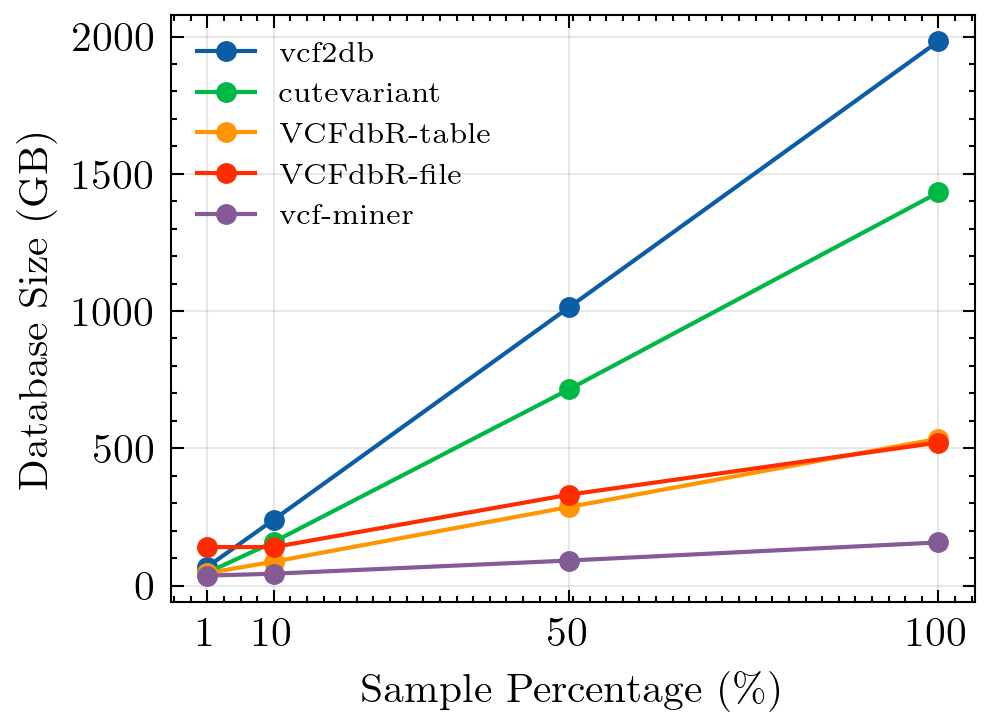
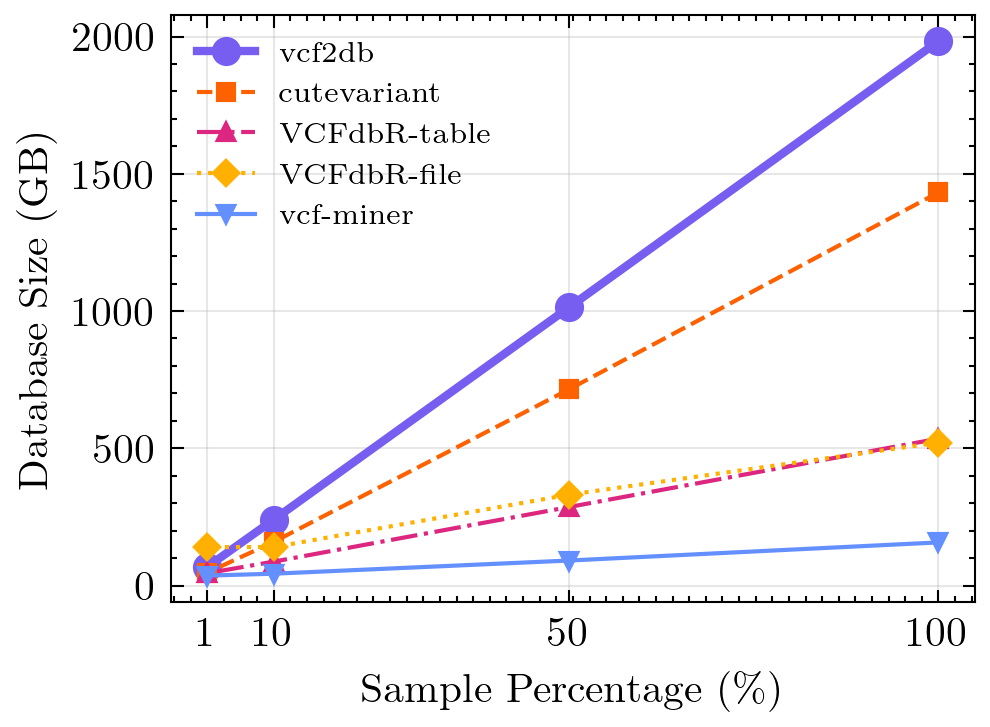
Keep line style consistent in ingestion-indexing-size plots

diff --git a/src/plot_ingestion_indexing_scaling.py b/src/plot_ingestion_indexing_scaling.py
@@ -3,6 +3,10 @@ import pandas as pd
 import scienceplots
 
 plt.style.use('science')
+plt.rcParams['axes.prop_cycle'] = plt.cycler(color=['#785ef0', '#fe6100', '#dc267f', '#ffb000', '#648fff'])
+
+markers = ['o', 's', '^', 'D', 'v', 'P', 'X']
+linestyles = ['-', '--', '-.', ':', '-', '--', '-.']
 
 df = pd.read_csv('data/ingestion_indexing_subsamples.csv')
 
@@ -12,10 +16,11 @@ sample_percentages = [1, 10, 50, 100]
 # Ingestion plot
 fig1, ax1 = plt.subplots()
 
-for solution in solutions:
+for i, solution in enumerate(solutions):
     solution_data = df[df['solution'] == solution]
     ingestion_hours = solution_data['ingestion'].div(3600)
-    ax1.plot(solution_data['sample_percentage'], ingestion_hours, marker='o', markersize=4, label=solution)
+    lw, ms = (2, 6) if solution == 'vcf2db' else (1, 4)
+    ax1.plot(solution_data['sample_percentage'], ingestion_hours, marker=markers[i % len(markers)], linestyle=linestyles[i % len(linestyles)], markersize=ms, linewidth=lw, label=solution)
 
 ax1.set_xlabel('Sample Percentage (\%)')
 ax1.set_ylabel('Hours')
@@ -24,15 +29,17 @@ ax1.set_xticks(sample_percentages)
 ax1.grid(True, alpha=0.3)
 
 plt.tight_layout()
-plt.savefig('plots/ingestion_scaling.png', dpi=300)
+plt.savefig('plots/ingestion_scaling.png', dpi=300, bbox_inches='tight')
+plt.close()
 
 # Indexing plot
 fig2, ax2 = plt.subplots()
 
-for solution in solutions:
+for i, solution in enumerate(solutions):
     solution_data = df[df['solution'] == solution]
     indexing_hours = solution_data['indexing'].div(3600)
-    ax2.plot(solution_data['sample_percentage'], indexing_hours, marker='o', markersize=4, label=solution)
+    lw, ms = (2, 6) if solution == 'vcf2db' else (1, 4)
+    ax2.plot(solution_data['sample_percentage'], indexing_hours, marker=markers[i % len(markers)], linestyle=linestyles[i % len(linestyles)], markersize=ms, linewidth=lw, label=solution)
 
 ax2.set_xlabel('Sample Percentage (\%)')
 ax2.set_ylabel('Hours')
@@ -41,4 +48,5 @@ ax2.set_xticks(sample_percentages)
 ax2.grid(True, alpha=0.3)
 
 plt.tight_layout()
-plt.savefig('plots/indexing_scaling.png', dpi=300)
+plt.savefig('plots/indexing_scaling.png', dpi=300, bbox_inches='tight')
+plt.close()

diff --git a/src/plot_db_size_scaling.py b/src/plot_db_size_scaling.py
@@ -3,6 +3,10 @@ import pandas as pd
 import scienceplots
 
 plt.style.use('science')
+plt.rcParams['axes.prop_cycle'] = plt.cycler(color=['#785ef0', '#fe6100', '#dc267f', '#ffb000', '#648fff'])
+
+markers = ['o', 's', '^', 'D', 'v', 'P', 'X']
+linestyles = ['-', '--', '-.', ':', '-', '--', '-.']
 
 df = pd.read_csv('data/db_sizes.csv')
 
@@ -11,9 +15,10 @@ sample_percentages = [1, 10, 50, 100]
 
 fig, ax = plt.subplots()
 
-for solution in solutions:
+for i, solution in enumerate(solutions):
     solution_data = df[df['solution'] == solution]
-    ax.plot(solution_data['sample_percentage'], solution_data['db_size_gb'], marker='o', markersize=4, label=solution)
+    lw, ms = (2, 6) if solution == 'vcf2db' else (1, 4)
+    ax.plot(solution_data['sample_percentage'], solution_data['db_size_gb'], marker=markers[i % len(markers)], linestyle=linestyles[i % len(linestyles)], markersize=ms, linewidth=lw, label=solution)
 
 ax.set_xlabel('Sample Percentage (\%)')
 ax.set_ylabel('Database Size (GB)')
@@ -22,4 +27,5 @@ ax.set_xticks(sample_percentages)
 ax.grid(True, alpha=0.3)
 
 plt.tight_layout()
-plt.savefig('plots/db_size_scaling.png', dpi=300)
+plt.savefig('plots/db_size_scaling.png', dpi=300, bbox_inches='tight')
+plt.close()
